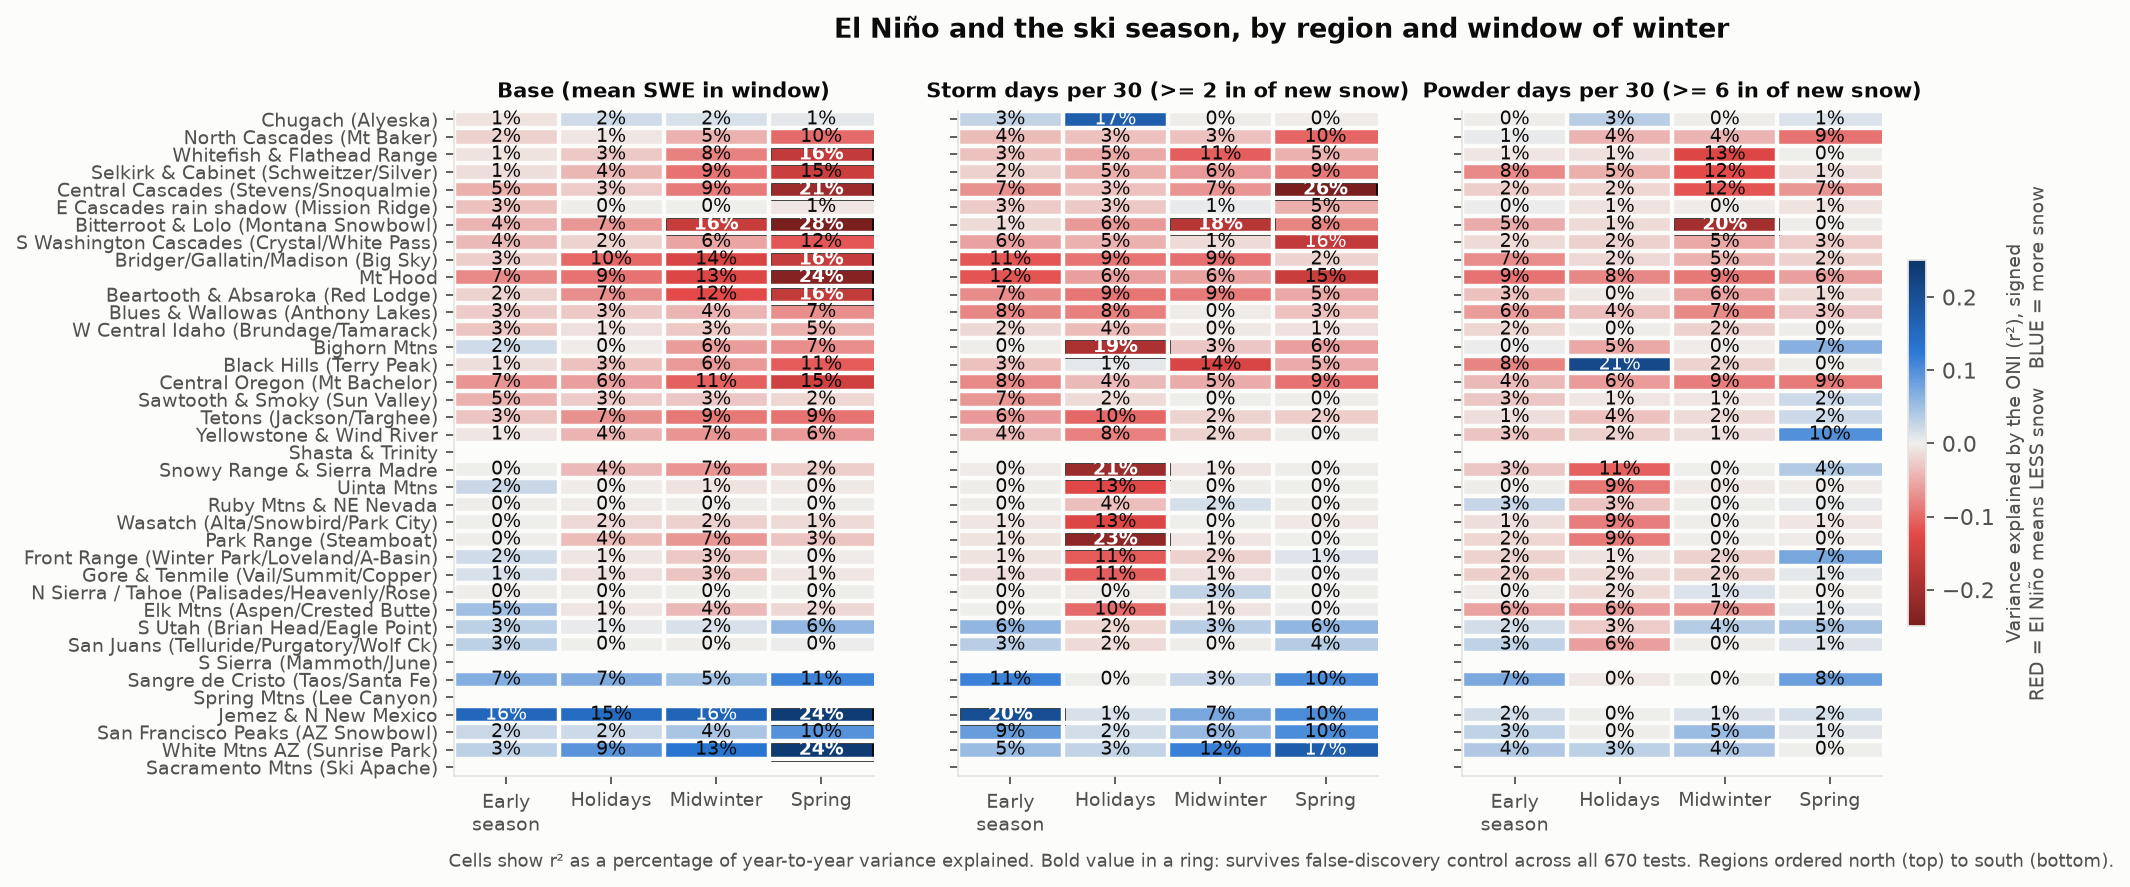
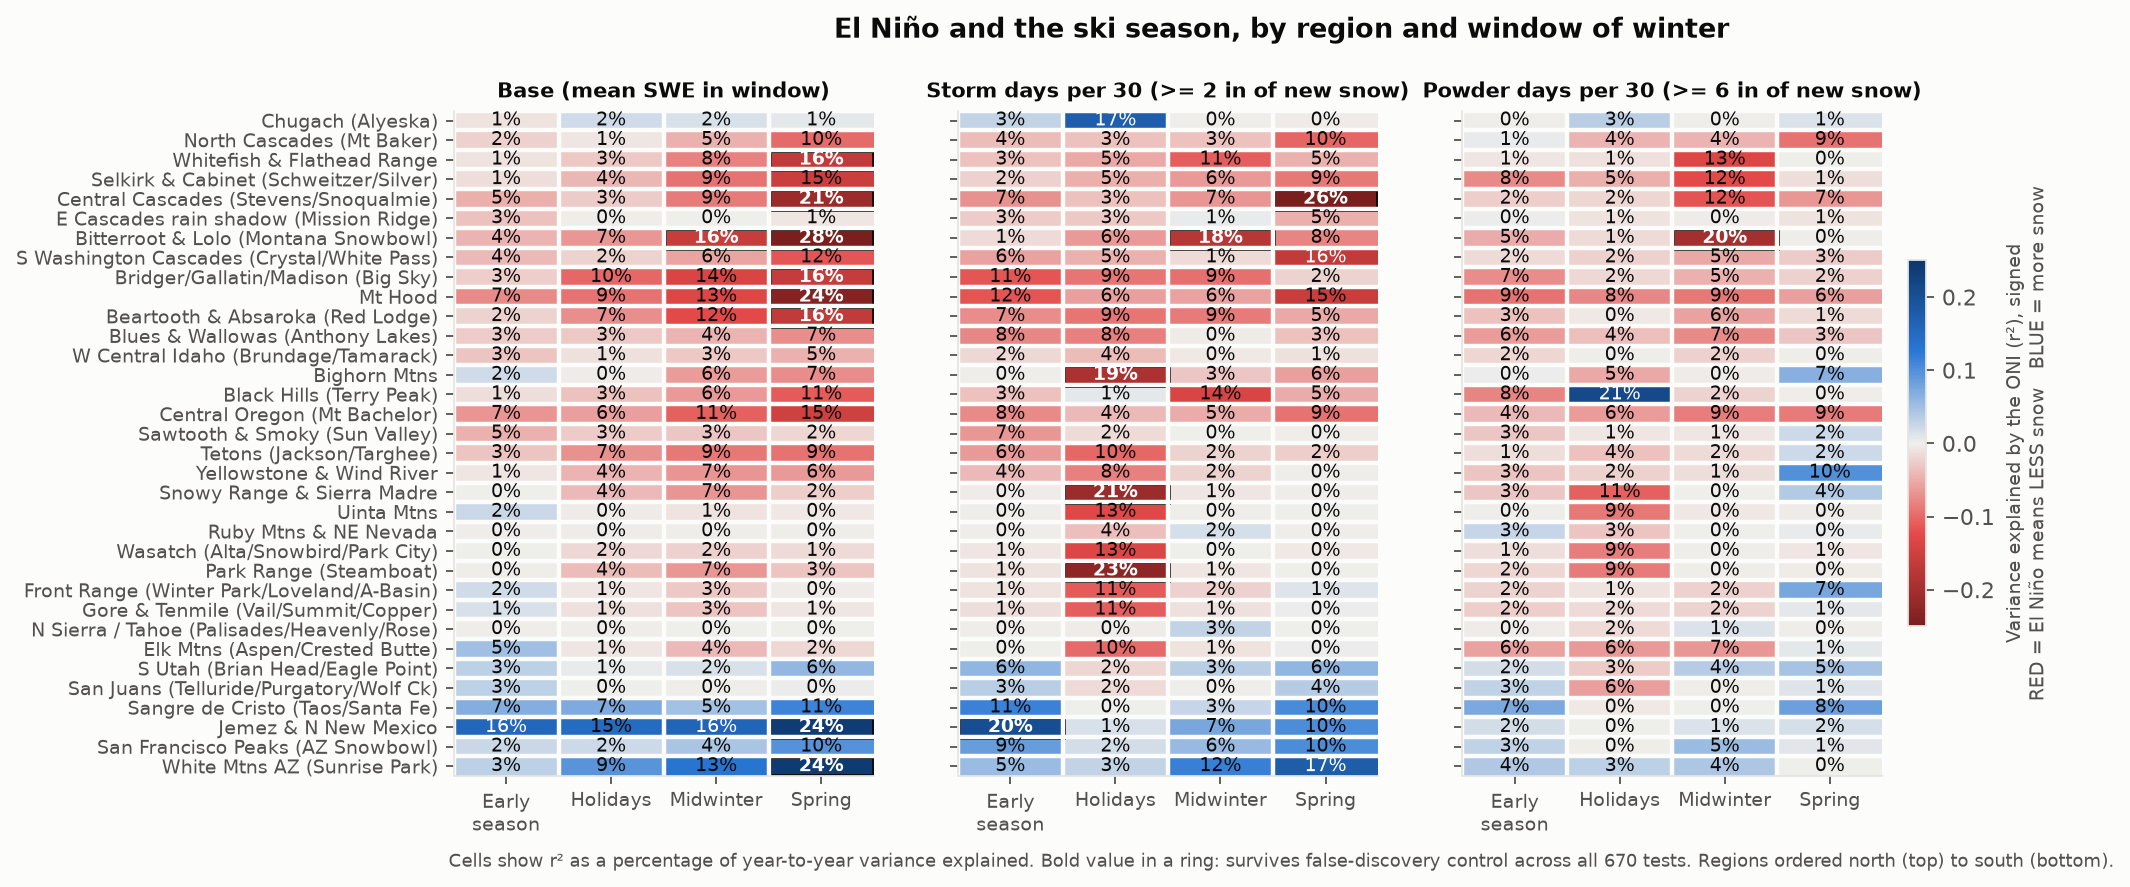
Season-shape figure in real snow depth; tidy heatmap and map
- fig_season_shape now uses SNWD (actual snow depth, inches) rather than
  water equivalent, because "base" to a skier means depth, and picks
  regions spanning the seesaw (worst-hit, a maritime case, the node, a
  gainer) instead of whichever have the most gauges. Snowbowl peaks at 65
  inches in La Nina against 52 in El Nino; Jemez reverses, 33 against 24.
- The region map replaces the Alaska inset, which collided with the
  northern labels, with a note; significance is now matched to the same
  window and metric rather than any test in the region.
- fig_window_change is split at the ENSO node into three latitude bands:
  averaging all regions cancelled the seesaw to near zero and said nothing
  true about anywhere. The holiday anomaly is visible now.
- Heatmap drops the four regions with no data instead of leaving blank
  rows, and fig_powder_days sorts by effect with the threshold named in
  the axis label.

Claude-Session: https://claude.ai/code/session_016DJ8LJ9ZCUSpEYfDZNRudh

diff --git a/enso_snowpack/cli.py b/enso_snowpack/cli.py
@@ -371,9 +371,23 @@ def cmd_analyze(args) -> int:
             FS.fig_window_bars(comp, results)
             FS.fig_region_map(comp, grid, meta, results)
             FS.fig_strength(strength_phys, results)
-            shapes = SKI.season_shapes(sub, region_map, enso)
+            # Pick regions that span the seesaw, not the ones with most gauges:
+            # worst-hit, a maritime case, the node, and a gainer.
+            mid = comp[(comp["window"] == "Midwinter")
+                       & (comp["metric"] == "big_storm_days_per_window")].dropna(
+                           subset=["pct_change_nino"]).sort_values("pct_change_nino")
+            picks = [r for r in (list(mid["region"].head(2))
+                                 + list(mid["region"].iloc[len(mid) // 2: len(mid) // 2 + 1])
+                                 + list(mid["region"].tail(1))) if r]
+            # Snow DEPTH is what a skier calls the base, so use SNWD (1993 on)
+            # and fall back to water equivalent only if depth is too sparse.
+            shapes = SKI.season_shapes(sub, region_map, enso, regions=picks, element="SNWD")
+            unit = "in of snow depth"
+            if len(shapes) < 2:
+                shapes = SKI.season_shapes(sub, region_map, enso, regions=picks, element="WTEQ")
+                unit = "in of snow water"
             if shapes:
-                FS.fig_season_shape(shapes, results)
+                FS.fig_season_shape(shapes, results, unit=unit)
             # probability distributions behind the strongest findings
             top = grid.nsmallest(6, "p_perm")[["region", "window", "metric"]]
             dists = [SKI.distributions_for(wm, region_map, enso, r.region, r.window, r.metric,

diff --git a/enso_snowpack/figures_ski.py b/enso_snowpack/figures_ski.py
@@ -73,7 +73,7 @@ def fig_powder_days(comp: pd.DataFrame, meta: dict, out: Path, window: str = "Mi
 
 
 def fig_season_shape(cube_means: dict, out: Path, name: str = "fig_season_shape",
-                     unit: str = "in") -> Path:
+                     unit: str = "in of snow depth") -> Path:
     """The base through the winter, El Niño against La Niña, in inches.
 
     ``cube_means`` maps region -> {phase: array over day-of-water-year}. This
@@ -100,7 +100,7 @@ def fig_season_shape(cube_means: dict, out: Path, name: str = "fig_season_shape"
                             where=np.isfinite(nino) & np.isfinite(nina),
                             color=LESS_SNOW, alpha=0.10, lw=0)
         ax.set_title(region, fontsize=9.5, loc="left")
-        ax.set_ylabel(f"Base ({unit})", fontsize=9)
+        ax.set_ylabel(f"Base\n({unit})", fontsize=9)
         ax.grid(color=GRID, lw=0.6)
     ticks = [(pd.Timestamp(2001 if m >= 10 else 2002, m, 1) - pd.Timestamp(2001, 10, 1)).days
              for m in (11, 12, 1, 2, 3, 4, 5)]
@@ -111,7 +111,9 @@ def fig_season_shape(cube_means: dict, out: Path, name: str = "fig_season_shape"
     for ax in axes.ravel()[len(regions):]:
         ax.set_visible(False)
     axes.ravel()[0].legend(frameon=False, fontsize=8.5, loc="upper left")
-    fig.suptitle("How the base builds through the winter, by ENSO phase", y=1.002,
+    fig.suptitle("How the base builds through the winter, by ENSO phase\n"
+                 "worst-hit regions at the top, a region that gains at the bottom right",
+                 y=1.004,
                  fontsize=12, fontweight="bold")
     fig.tight_layout()
     return _save(fig, out, name)

diff --git a/enso_snowpack/figures.py b/enso_snowpack/figures.py
@@ -268,7 +268,8 @@ def fig_ski_heatmap(grid: pd.DataFrame, out: Path, name: str = "fig9_ski_region_
     """
     from .ski import SKI_REGIONS, SKI_WINDOWS, METRICS
     labels = dict(METRICS)
-    regions = [r[0] for r in sorted(SKI_REGIONS, key=lambda r: -r[2])]
+    have = set(grid["region"])
+    regions = [r[0] for r in sorted(SKI_REGIONS, key=lambda r: -r[2]) if r[0] in have]
     windows = [w[0] for w in SKI_WINDOWS]
     metrics = [m for m in metrics if m in set(grid["metric"])]
 
